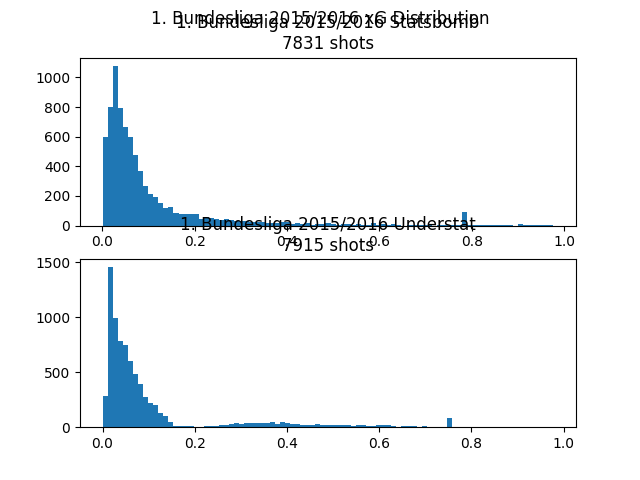
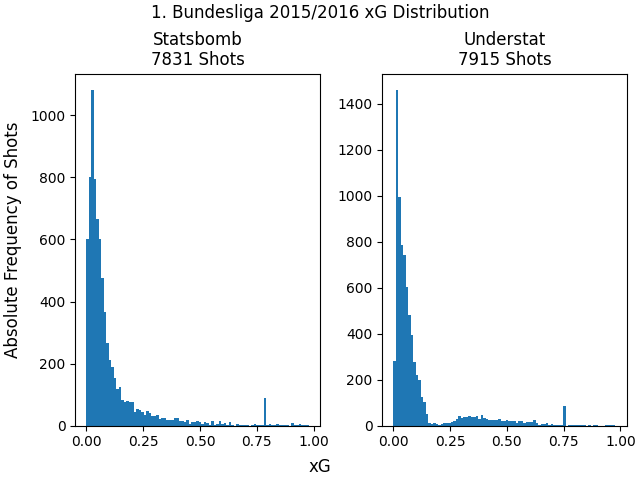
Update xG distribution graphs for multiple leagues

diff --git a/README.md b/README.md
@@ -31,7 +31,35 @@ Looking at the [competitions which are indexed by statsbomb open data](https://g
 - Ligue 1
     - Season 2015/16
 
-Statsbomb only indexes a very small subset of the La Liga.
+Statsbomb only indexes a very small subset of La Liga.
 
-# TODO
-Do descriptive analysis on the two datasets 
+### xG Distribution of Statsbomb and Understat
+When looking at the distribution of the xG values of the 1. Bundesliga 2015/2016 we can clearly see the difference of the data providers regarding the xG values.
+<img src="graphs/1. Bundesliga_2015-2016_xg_distribution.png" alt="xG distribution for the 1. Bundesliga 2015/2016 from both statsbomb and understat">
+A couple of differences can be spotted:
+- Different amounts of shots
+    - For a shot it might happen, that one data provider classifies it as a shot and the other data provider does not classify it as a shot. This can have many reasons why it happens:
+        - Difference in measurement systems
+        - Difference in what classifies as a shot within the measurement system
+        - Other reasons, like technical inaccuracies, failure of equipment, etc.
+- Peak in xG's at roughly around 0.75
+    - Most dataproviders fix the xG values for penalty shots, as these shots within their measurement systems always have the same conditions for any shooter/goalkeeper pair. Important to note here, is that we can see that Statsbomb fixes the penalty xG value above 0.75, while Understat fixes it at just under 0.75.
+- Shape of the distribution
+    - Statsbomb's distribution of xG seems smoother and the exponential decay is more pronounced. Except for penalties the absolute frequency is inverse proportional to the xG.
+    - Understat's distribution has more ragged edges. The inverse proportional relationship of the absolute frequencies of shots to the xG value does not exist anymore, as there are less shots between the xG values 0.2 and 0.25 , than between the xG values 0.25 and 0.5.
+
+**xG Distribution of all intersecting seasons combined**
+<img src="graphs/all_xg_distribution.png" alt="xG Distribution of all intersecting seasons combined for both Statsbomb and Understat">
+Looking at the xG distribution of all seasons, which are in the Statsbomb dataset ***and*** in the Understat dataset, we can see, that these difference in distribution become even more pronounced:
+Statsbomb distribution gets smoothed out even more, with a single-valued peak at just above 0.75 xG that represents the penalty shots, while Understats distribution looks almost like a triangle in the lower range of xG. Understat's distribution now also showcases the distribution between the xG values 0.2 and 0.7 as almost symmmetrical and it also seems to have multiple values for the peak at around xG value 0.75.
+Furthermore, Statsbomb indexes 161 more shots, which is about 0.44% more than Understat.
+
+Here are some more metrics of the above plotted distributions:
+- Statsbomb mean xG: 0.0984384322742285
+- Understat mean xG: 0.1036390906000399
+- Statsbomb median xG: 0.050603875
+- Understat median xG: 0.0477632656693458
+- Statsbomb variance xG: 0.019729970692841086
+- Understat variance xG: 0.024090796686108872
+- Statsbomb standard deviation xG: 0.14046341407228105
+- Understat standard deviation xG: 0.15521210225400878
